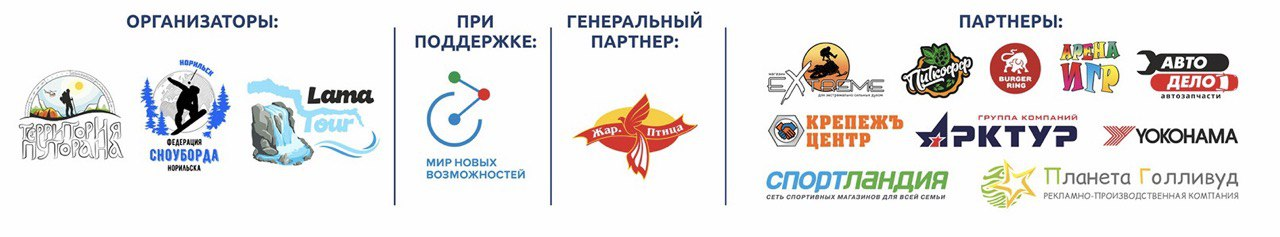
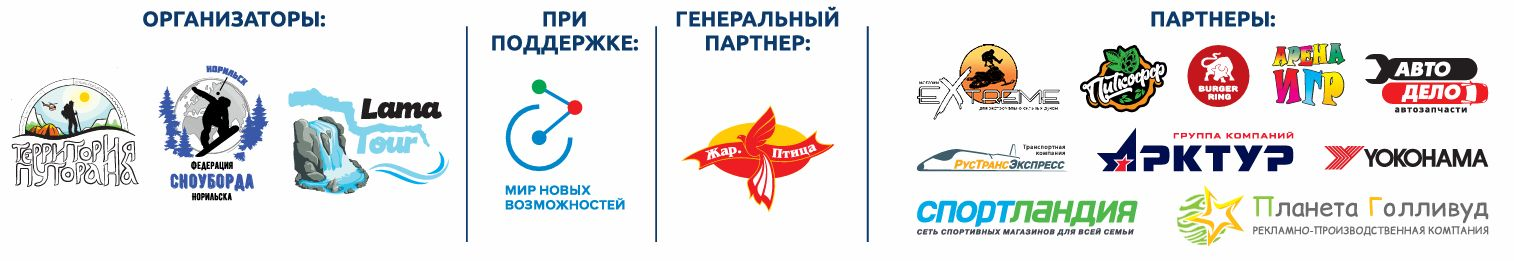
sr chngs

Changed region(s): [[0.0, 0.0295, 1.0, 0.9451], [0.0938, 0.0295, 0.2188, 0.1181], [0.75, 0.0295, 0.8438, 0.1181]]

diff --git a/territoryputorana/src/pages/SnowRide/SnowRide.js b/territoryputorana/src/pages/SnowRide/SnowRide.js
@@ -106,7 +106,7 @@ const SnowRide = () => {
           <li>группа компаний «Жар. Птица»</li>
           <li>группа компаний «Арктур»</li>
           <li>магазин «Экстрим»</li>
-          <li>магазин «Крепеж центр»</li>
+          <li>транспортная компания "РусТрансЭкспресс"</li>
           <li>магазин «Авто-дело»</li>
           <li>компания «Питкофф»</li>
           <li>BURGER RING</li>
